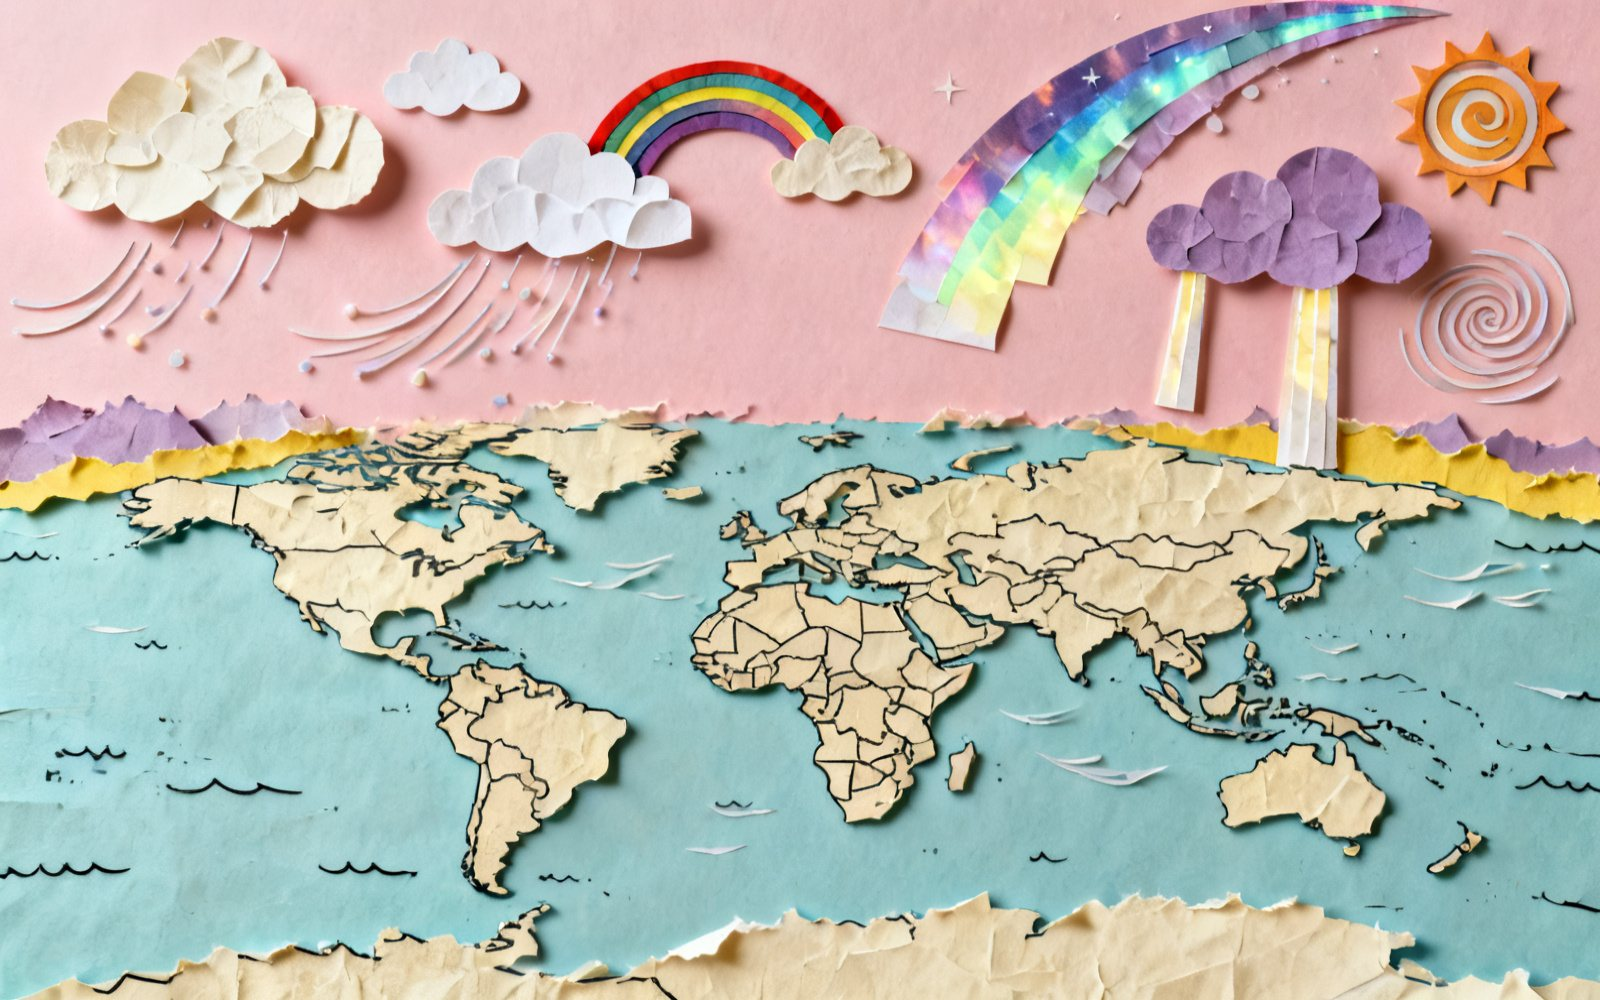
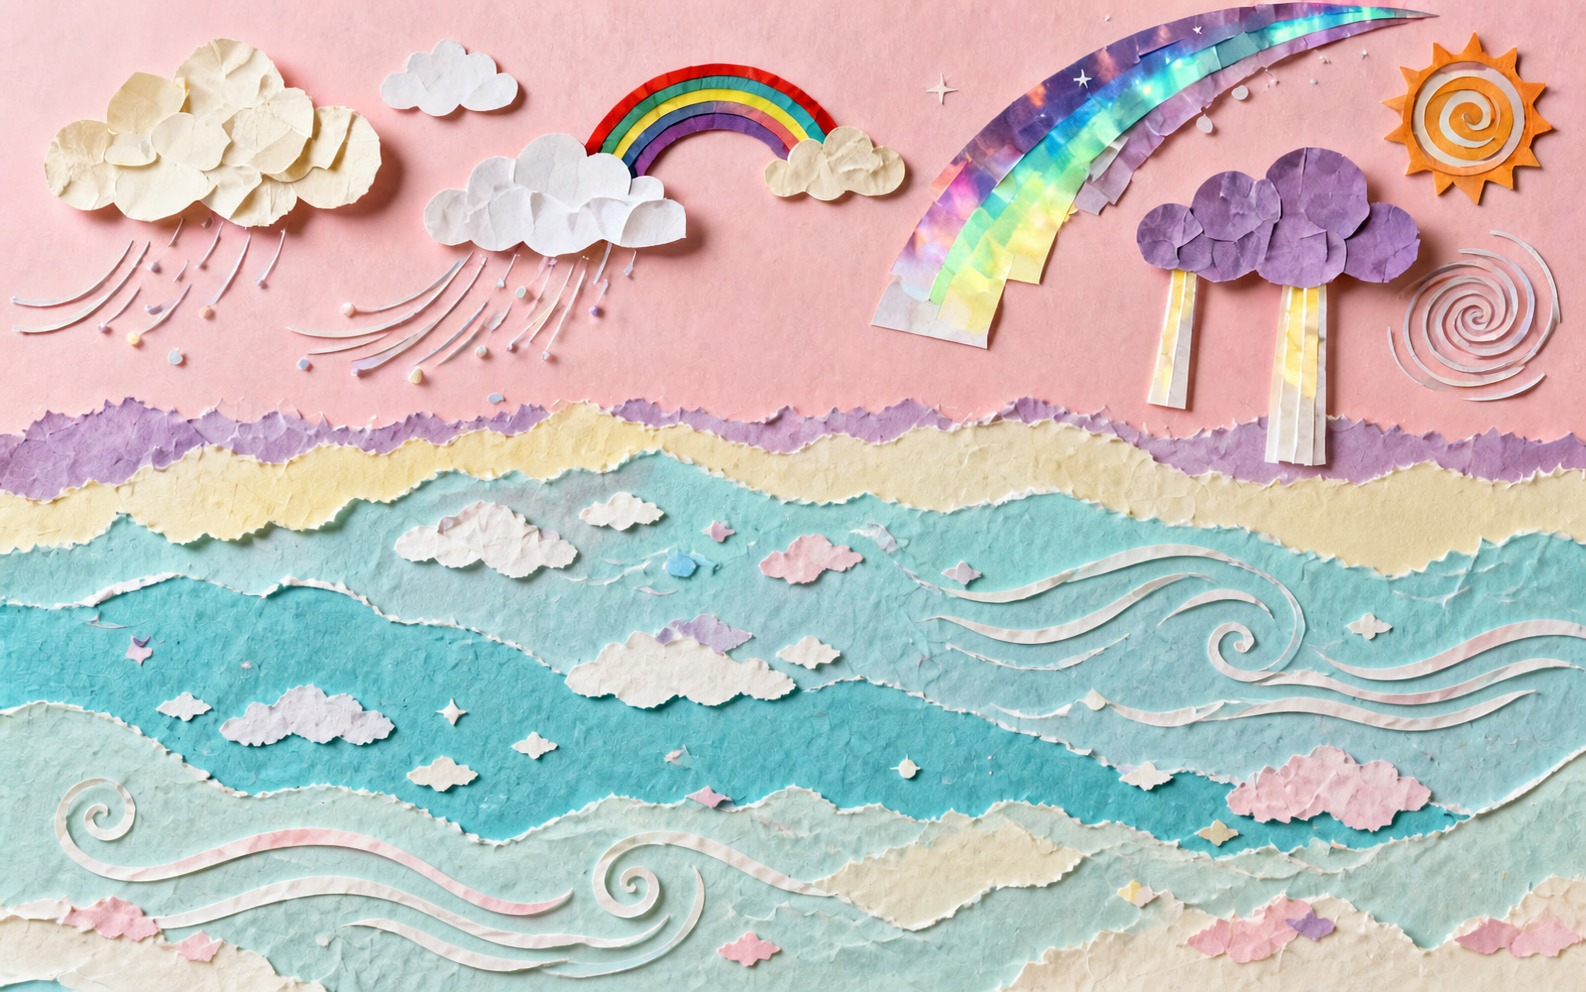
Replace hero art without borders

diff --git a/index.html b/index.html
@@ -14,7 +14,7 @@
       content="实时天气壁纸 + 215 种天象访客收集。粉彩剪纸风，克制治愈，不遮挡桌面。"
     />
     <meta property="og:type" content="website" />
-    <meta property="og:image" content="assets/art/og.jpg" />
+    <meta property="og:image" content="assets/art/hero.jpg" />
     <meta name="theme-color" content="#cfe8f3" />
     <link rel="preconnect" href="https://fonts.googleapis.com" />
     <link rel="stylesheet" href="css/site.css" />
@@ -330,7 +330,7 @@
             </p>
             <a class="steam-store-card" href="https://store.steampowered.com/app/4947380/_/" id="steamBtn" target="_blank" rel="noopener">
               <span class="steam-store-art" aria-hidden="true">
-                <img src="assets/art/og.jpg" alt="" loading="lazy" />
+                <img src="assets/art/hero.jpg" alt="" loading="lazy" />
                 <span class="steam-store-mark">STEAM<span>STORE</span></span>
               </span>
               <span class="steam-store-content">

diff --git a/tools/gen_all_art.py b/tools/gen_all_art.py
@@ -10,27 +10,22 @@ import gen_image  # noqa: E402
 SITE = os.path.dirname(os.path.dirname(os.path.abspath(__file__)))
 ASSETS = os.path.join(SITE, "assets", "art")
 
-# Shared style base — mirrors the wallpaper's cut-paper collage + pastel weather-map look.
+# Shared style base — mirrors the wallpaper's cut-paper collage + pastel weather look.
 STYLE = (
     "手工剪纸拼贴风格（cut-paper collage / papercraft），层叠撕边纸张纹理，"
     "柔和粉彩色调：奶油纸色 #fff8df、粉蓝海面 #cfe8f3、薄荷风区 #d8ecd1、暖黄 #f3e3a7、"
     "淡紫 #a88bd9，墨蓝色描边 #344653，克制低对比、柔和、宁静治愈的氛围，扁平插画，"
-    "细腻的纸张颗粒与轻微投影，无文字，无水印"
+    "细腻的纸张颗粒与轻微投影，无文字，无水印，无地图、无国界、无行政区线、无可识别地理轮廓"
 )
 
 JOBS = [
     # (filename, width, height, prompt)
     (
         "hero.png", 1600, 1000,
-        "一幅横向宽幅主视觉插画：俯瞰的卡通世界天气地图，粉蓝色海洋与奶油色陆地，"
-        "墨线勾勒的海岸线，地图上方漂浮着多种由剪纸拼贴而成的天象：蓬松的云朵、彩虹、"
-        "极光光带、旋转的台风、光柱与日晕、流动的风线粒子。画面轻盈梦幻，"
-        "留白充足适合叠加标题文字。" + STYLE,
-    ),
-    (
-        "og.png", 1200, 630,
-        "社交分享封面图：中心是一片剪纸拼贴的柔和天气地图与漂浮的云、彩虹、极光天象，"
-        "构图居中平衡，四周留白，适合作为网站分享缩略图。" + STYLE,
+        "一幅横向宽幅主视觉插画：抽象的粉蓝、奶油与淡紫色剪纸天气层次，"
+        "天空漂浮着蓬松的云朵、彩虹、旋转的风涡、光柱与流动风线粒子；"
+        "下半部分是非地理化的抽象纸艺气流、云带与柔和色块，不出现陆地、海岸线或任何地图轮廓。"
+        "画面轻盈梦幻，留白充足适合叠加标题文字。" + STYLE,
     ),
     (
         "visitor-showcase.png", 1200, 900,

diff --git a/README.md b/README.md
@@ -12,7 +12,7 @@ css/site.css          设计系统（调色板取自 apps/wallpaper/css/style.cs
 js/site.js            精选画廊渲染、稀有度筛选、中英切换、滚动出现、生成图注入（零依赖）
 data/visitors.json    24 位精选访客的 {id,label,labelEn,rarity,art}，含完整图鉴数量但不公开名录
 assets/visitors/      仅精选访客的代表 sprite（从主项目复制）
-assets/art/           Paper 生成的剪纸风美术：hero / og / visitor-showcase / ranch，及 preview.jpg
+assets/art/           Paper 生成的剪纸风美术：hero / visitor-showcase / ranch，及 preview.jpg
 tools/                构建脚本（见下）
 ```
 
@@ -24,7 +24,7 @@ tools/                构建脚本（见下）
 # 1) 提取公开精选访客元数据 + 复制代表 sprite（读 apps/wallpaper/data/visitors.js）
 python tools/extract_visitors.py
 
-# 2) 用 PaperArt 生成技能重出剪纸风主视觉 / OG / 装饰图（异步，读技能 .env 里的 UAT key）
+# 2) 用 PaperArt 生成技能重出剪纸风主视觉 / 装饰图（异步，读技能 .env 里的 UAT key）
 python tools/gen_all_art.py        # 内部调用 tools/gen_image.py
 ```
 
